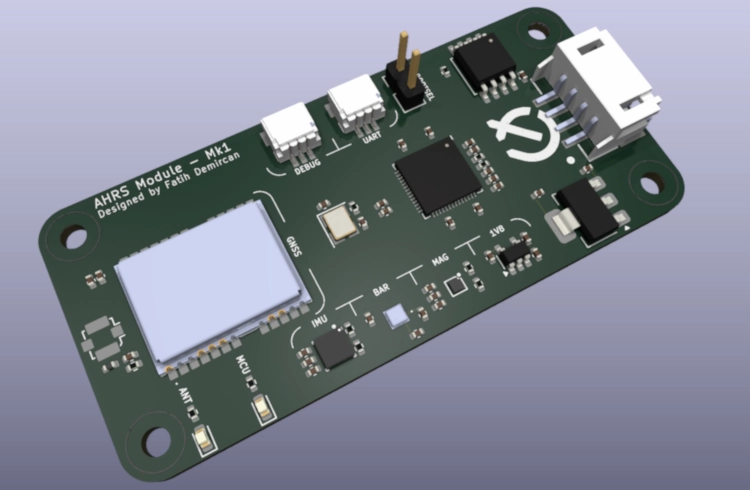
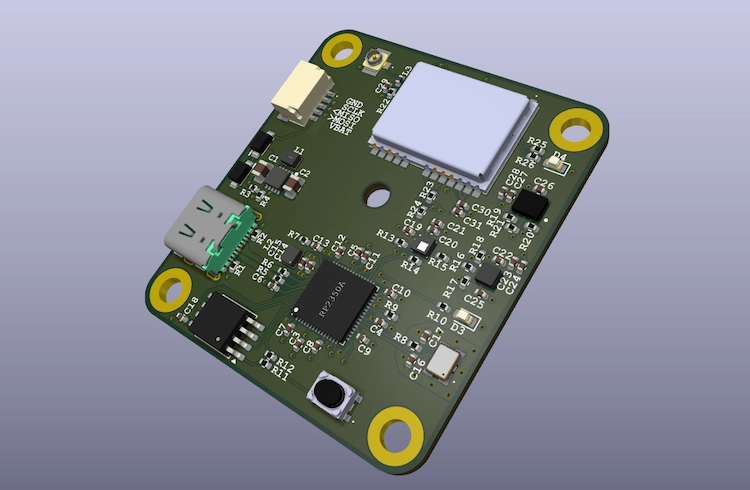
portfolio text revised; "LoRa-Module" added

diff --git a/source/src/app/portfolio.rs b/source/src/app/portfolio.rs
@@ -64,7 +64,7 @@ fn Carousel(children: Children, length: i32) -> impl IntoView {
                 {children()}
             </div>
             <div class="absolute w-full bottom-0 translate-y-1/2 flex gap-1 sm:gap-3 justify-center">
-                <For each=move || (0..length) key=|x| x.clone() let(x)>
+                <For each=move || 0..length key=|x| x.clone() let(x)>
                     <button
                         value=x
                         aria-label="slide"
@@ -110,7 +110,7 @@ pub fn Portfolio() -> impl IntoView {
     view! {
         <CarouselOne modal_one=modal_one />
         <Card title="Portfolio".to_string()>
-            <Carousel length=5>
+            <Carousel length=6>
                 <Slide title="Android App - RAgent".to_string()>
                     <article class="text-justify">
                         <button
@@ -123,14 +123,14 @@ pub fn Portfolio() -> impl IntoView {
                             <img src="public/fig/ragent-app/02.webp" alt="ragent-app_02" />
                         </button>
                         <p>
-                            "Details on this app will be provided soon. Since it is just a dummy app, no core functionalities were implemented. However, if there is interest in testing it out, this is the link to the "
+                            "The job of a ramp agent is to coordinate the complete turnaround of an aircraft. A major part of this role involves tracking the start and end times of each operation, such as deboarding, refueling, boarding, and others. In addition, the ramp agent must keep track of cumulative passenger numbers per section, as well as the loading of baggage and cargo in the respective holds, since these figures affect the aircraft’s center of gravity and are therefore essential for the cockpit crew to set the trim. This app is intended as a dummy design to demonstrate what a suitable digital counterpart to the currently paper-intensive workflow might look like. "
                             <a class="link" href="https://github.com/fatih-demircan/assets">
-                                ".apk-files"
+                                "[Link to the .apk-files]"
                             </a>"."
                         </p>
                     </article>
                 </Slide>
-                <Slide title="AHRS Module".to_string()>
+                <Slide title="AHRS-Module".to_string()>
                     <article class="text-justify">
                         <img
                             class="w-full sm:w-[50%] float-none sm:float-left mb-2 sm:mr-2"
@@ -138,13 +138,19 @@ pub fn Portfolio() -> impl IntoView {
                             alt="ahrs_board"
                         />
                         <p>
-                            "I've designed an AHRS module (Attitude Heading Reference
-                             System), also integrating a GNSS chip as well as a pressure
-                             sensor. My work covers the design of the PCB as well as the
-                             corresponding code. The PCB was designed using KiCad whereas
-                             the embedded code makes use the Rust crate Embassy. The goal
-                             is to utilize this in future projects, primarily for a
-                             drone."
+                            "I have developed an AHRS (Attitude and Heading Reference System) module that integrates a GNSS receiver and a pressure sensor. My work encompasses both the PCB design and the accompanying embedded software. The PCB was created using KiCad, while the firmware is built with the Rust Embassy framework. The system is intended for use in future projects - primarily in an unmanned aerial vehicle - where precise attitude and positional data are essential."
+                        </p>
+                    </article>
+                </Slide>
+                <Slide title="LoRa-Module".to_string()>
+                    <article class="text-justify">
+                        <img
+                            class="w-full sm:w-[50%] float-none sm:float-left mb-2 sm:mr-2"
+                            src="public/fig/lora_board.webp"
+                            alt="ahrs_board"
+                        />
+                        <p>
+                            "In addition to the AHRS board, I also designed a LoRa board utilizing the EBYTE E22-400MM22S transceiver, which offers a range of up to 7 km. The reason for designing a separate module is to evaluate different RF transceivers and explore the trade-off between bandwidth and range."
                         </p>
                     </article>
                 </Slide>

diff --git a/source/src/app/skills.rs b/source/src/app/skills.rs
@@ -39,20 +39,30 @@ fn Li(title: String, entries: BTreeMap<String, String>) -> impl IntoView {
 pub fn Skills() -> impl IntoView {
     let logos = LocalResource::new(|| fetch_logos());
     view! {
-        <Card title="What I Use".to_string()>
-            <ul>
-                {move || {
-                    let result = logos.get().unwrap_or_default();
-                    let app = result.get("app").unwrap_or(&BTreeMap::new()).clone();
-                    let lang = result.get("lang").unwrap_or(&BTreeMap::new()).clone();
-                    let pkg = result.get("pkg").unwrap_or(&BTreeMap::new()).clone();
+        <Card title="What I Use"
+            .to_string()>
+            {move || match logos.get() {
+                None => view! { <p>"Loading..."</p> }.into_any(),
+                Some(data) => {
                     view! {
-                        <Li title="Applications".to_string() entries=app />
-                        <Li title="Languages".to_string() entries=lang />
-                        <Li title="Packages & Frameworks".to_string() entries=pkg />
+                        <ul>
+                            <Li
+                                title="Applications".to_string()
+                                entries=data.get("app").unwrap().clone()
+                            />
+                            <Li
+                                title="Languages".to_string()
+                                entries=data.get("lang").unwrap().clone()
+                            />
+                            <Li
+                                title="Packages & Frameworks".to_string()
+                                entries=data.get("pkg").unwrap().clone()
+                            />
+                        </ul>
                     }
-                }}
-            </ul>
+                        .into_any()
+                }
+            }}
         </Card>
     }
 }
